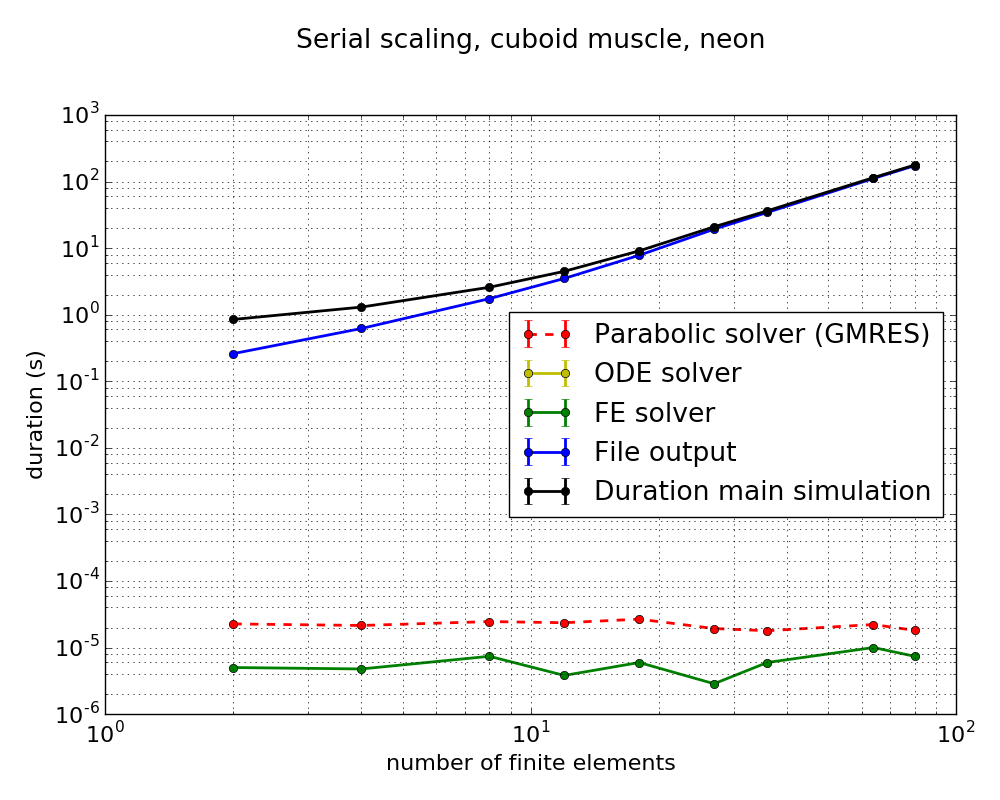
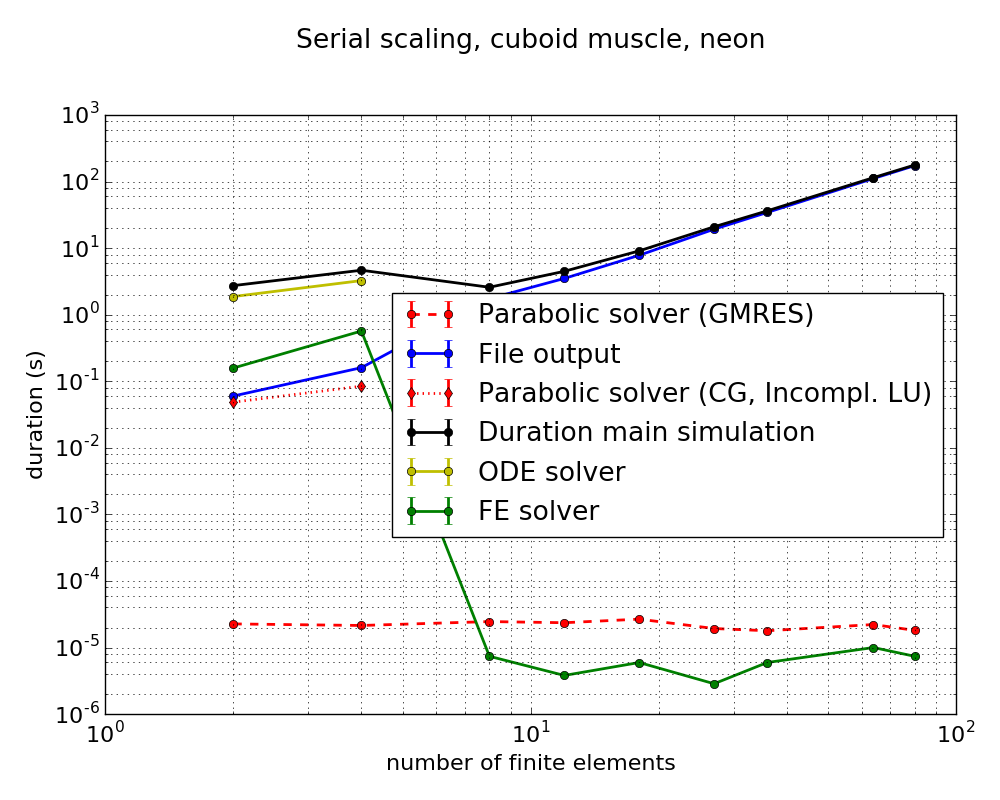
Update for paper format

Changed region(s): [[0.217, 0.3125, 0.961, 0.7188], [0.217, 0.75, 0.496, 0.8438], [0.899, 0.4688, 0.93, 0.5]]

diff --git a/1Dsolver/plot_reduced.py b/1Dsolver/plot_reduced.py
@@ -264,8 +264,8 @@ def extract_data(data):
         if value != 0:
           value_list.append(value)
       
-      if len(value_list) > 0:
-        print "key=",key, ",len=",len(value_list)
+      #if len(value_list) > 0:
+      #  print "key=",key, ",len=",len(value_list)
       
       # remove outlier
       value_list = sorted(value_list)
@@ -296,33 +296,34 @@ datasets = extract_data(data)
 
 ###############################################################
 # output to console
-print ""
-print "------------- duration -------------------------------------------"
-print "{:10}, {:6}, {:6}, {:6}, {:6}, {:10}, {:10}, {:10}, {:10}".\
-format("key", "nproc", "F", "#M", "#FE", "init", "stretch", "init", "main")
-for key in datasets:
-  
+if False:
+  print ""
+  print "------------- duration -------------------------------------------"
   print "{:10}, {:6}, {:6}, {:6}, {:6}, {:10}, {:10}, {:10}, {:10}".\
-  format(key, datasets[key]["value"][2], datasets[key]["value"][6], datasets[key]["value"][8], datasets[key]["value"][7], 
-  fo.str_format_seconds(datasets[key]["value"][10]), 
-  fo.str_format_seconds(datasets[key]["value"][11]), 
-  fo.str_format_seconds(datasets[key]["value"][12]), 
-  fo.str_format_seconds(datasets[key]["value"][13]))
-print ""
-print ""
-  
-print "{:10}, {:6}, {:6}, {:6}, {:6}, {:10}, {:10}, {:10}, {:10}".\
-format("key", "nproc", "F", "#M", "#FE", "ODE", "Parabolic", "FE", "file output")
-for key in datasets:
-  
+  format("key", "nproc", "F", "#M", "#FE", "init", "stretch", "init", "main")
+  for key in datasets:
+    
+    print "{:10}, {:6}, {:6}, {:6}, {:6}, {:10}, {:10}, {:10}, {:10}".\
+    format(key, datasets[key]["value"][2], datasets[key]["value"][6], datasets[key]["value"][8], datasets[key]["value"][7], 
+    fo.str_format_seconds(datasets[key]["value"][10]), 
+    fo.str_format_seconds(datasets[key]["value"][11]), 
+    fo.str_format_seconds(datasets[key]["value"][12]), 
+    fo.str_format_seconds(datasets[key]["value"][13]))
+  print ""
+  print ""
+    
   print "{:10}, {:6}, {:6}, {:6}, {:6}, {:10}, {:10}, {:10}, {:10}".\
-  format(key, datasets[key]["value"][2], datasets[key]["value"][6], datasets[key]["value"][8],  datasets[key]["value"][7], 
-  fo.str_format_seconds(datasets[key]["value"][17]), 
-  fo.str_format_seconds(datasets[key]["value"][18]), 
-  fo.str_format_seconds(datasets[key]["value"][19]), 
-  fo.str_format_seconds(datasets[key]["value"][96]))
-  
-  
+  format("key", "nproc", "F", "#M", "#FE", "ODE", "Parabolic", "FE", "file output")
+  for key in datasets:
+    
+    print "{:10}, {:6}, {:6}, {:6}, {:6}, {:10}, {:10}, {:10}, {:10}".\
+    format(key, datasets[key]["value"][2], datasets[key]["value"][6], datasets[key]["value"][8],  datasets[key]["value"][7], 
+    fo.str_format_seconds(datasets[key]["value"][17]), 
+    fo.str_format_seconds(datasets[key]["value"][18]), 
+    fo.str_format_seconds(datasets[key]["value"][19]), 
+    fo.str_format_seconds(datasets[key]["value"][96]))
+    
+    
 if False:
   print ""
   print "--------- timing -------------------------"
@@ -332,23 +333,23 @@ if False:
       print "   ", str(item).ljust(2), descriptions[item].ljust(50), ": ", datasets[key]["value"][item]
 
 
-  
-print ""
-print "------------- n iterations -------------------------------------------"
-print "{:10}, {:6}, {:6}, {:10}, {:10}, {:10}, {:10}, {:10}, {:10}, {:10}, {:10}".\
-format("key", "F", "#M", "Parabolic", "Newton", "p. n. iter", "min", "max", "n. n. iter", "min", "max" )
-for key in datasets:
-  
+    
+  print ""
+  print "------------- n iterations -------------------------------------------"
   print "{:10}, {:6}, {:6}, {:10}, {:10}, {:10}, {:10}, {:10}, {:10}, {:10}, {:10}".\
-  format(key, datasets[key]["value"][6], datasets[key]["value"][8], 
-  datasets[key]["value"][23],
-  datasets[key]["value"][24],
-  datasets[key]["value"][25],
-  datasets[key]["value"][26],
-  datasets[key]["value"][27],
-  datasets[key]["value"][28],
-  datasets[key]["value"][29],
-  datasets[key]["value"][30])
+  format("key", "F", "#M", "Parabolic", "Newton", "p. n. iter", "min", "max", "n. n. iter", "min", "max" )
+  for key in datasets:
+    
+    print "{:10}, {:6}, {:6}, {:10}, {:10}, {:10}, {:10}, {:10}, {:10}, {:10}, {:10}".\
+    format(key, datasets[key]["value"][6], datasets[key]["value"][8], 
+    datasets[key]["value"][23],
+    datasets[key]["value"][24],
+    datasets[key]["value"][25],
+    datasets[key]["value"][26],
+    datasets[key]["value"][27],
+    datasets[key]["value"][28],
+    datasets[key]["value"][29],
+    datasets[key]["value"][30])
 ###############################################################
 #######################################################
 # plot
@@ -409,7 +410,7 @@ xlist = sorted(xdata)
 
 ######################
 # plot serial scaling
-plt.figure(2, figsize=(8,6))
+plt.figure(2, figsize=(12,6))
 
 # 13 duration main sim
 # 17 ODE
@@ -496,12 +497,16 @@ ax = plt.gca()
 #ax.set_xscale('log', basey=2) 
 ax.set_yscale('log', basey=10) 
 ax.set_xscale('log', basey=10) 
-ax.set_xlim([10, 4e3])
+ax.set_xlim([8, 4e3])
 #ax.set_xticks([1,2,4,8,12,16,24,32,64])
 plt.xlabel('Number of nodes per fibre, $s_x$')
+ax.xaxis.set_label_coords(0.5, -0.13)
 plt.ylabel('Runtime (s)')
-plt.legend(loc='best',fontsize=20)
-plt.grid(which='both')
+
+plt.subplots_adjust(right=0.57, bottom=0.15)
+plt.legend(bbox_to_anchor=(1.05, 1), loc=2, borderaxespad=0., frameon=False)
+
+plt.grid(which='major')
 
 # twin axes for processes
 #ax2 = ax.twiny()
@@ -512,7 +517,7 @@ plt.grid(which='both')
 
 if not paper_version:
   plt.title(caption)
-plt.tight_layout()
+#plt.tight_layout()
 plt.savefig(output_path+SCENARIO+'_1D_solver.png')
 
 if show_plots:

diff --git a/paper_weak_scaling_with3d/plot.py b/paper_weak_scaling_with3d/plot.py
@@ -353,10 +353,14 @@ colors = {
 }
 
 labels = {
-  "15o": "total",      # total
-  "36o": "solver 0D model",      # 0D
-  "37o": "solver 1D model",      # 1D
-  "38o": "solver 3D model",      # 3D
+  "15o": "total (cubes)",      # total
+  "36o": "solver 0D model (cubes)",      # 0D
+  "37o": "solver 1D model (cubes)",      # 1D
+  "38o": "solver 3D model (cubes)",      # 3D
+  "15-": "total (pillars)",      # total
+  "36-": "solver 0D model (pillars)",      # 0D
+  "37-": "solver 1D model (pillars)",      # 1D
+  "38-": "solver 3D model (pillars)",      # 3D
   "39o": u"homogenization, 1D to 3D",     # 1D->3D
   "40o": u"interpolation, 3D to 1D",      # 3D->1D
   "41o": "file output",      # file output
@@ -450,14 +454,14 @@ ax.set_xlim([2e3,1e5])
 
 if not paper_no_legend:
   plt.subplots_adjust(right=0.58, top=0.84)
-  plt.legend(bbox_to_anchor=(1.05, 1), loc=2, borderaxespad=0., fontsize=20.)
+  plt.legend(bbox_to_anchor=(1.05, 1), loc=2, borderaxespad=0., fontsize=20., frameon=False)
 
 #ax.set_xticks(np.linspace(000,60000,5))
 
 plt.xlabel('Number of 1D elements')
 plt.ylabel('Runtime (s)')
 #plt.legend(loc='best')
-plt.grid(which='both')
+plt.grid(which='major')
 
 # twin axes for processes
 ax2 = ax.twiny()
@@ -596,7 +600,7 @@ if not paper_no_legend:
 plt.xlabel('Number of 1D elements')
 plt.ylabel('Parallel efficiency')
 #plt.legend(loc='best')
-plt.grid(which='both')
+plt.grid(which='major')
 
 # twin axes for processes
 ax2 = ax.twiny()
@@ -813,9 +817,10 @@ for plotkey in ["ghosto", "ghost-"]:
 
 
 plt.xlabel('Number of 1D elements')
+ax.xaxis.set_label_coords(0.5, -0.08)
 plt.ylabel('Number of 3D ghost elements')
 plt.legend(loc='best')
-plt.grid(which='both')
+plt.grid(which='major')
 
 # twin axes for processes
 ax2 = ax.twiny()

diff --git a/interpolation_time/plot_serial_scaling.py b/interpolation_time/plot_serial_scaling.py
@@ -403,7 +403,7 @@ xlist = sorted(xdata)
 
 ######################
 # plot serial scaling
-plt.figure(2, figsize=(8,7))
+plt.figure(2, figsize=(12,7))
 
 # 13 duration main sim
 # 17 ODE
@@ -436,7 +436,7 @@ labels = {
   "36-": "solver 0D model",      # 0D
   "37-": "solver 1D model",      # 1D
   "38-": "solver 3D model",      # 3D
-  "39o": u"old implementation",     # 1D->3D
+  "39o": u"Heidlauf et al. 2013",     # 1D->3D
   "39-": u"new implementation",     # 1D->3D
   "40-": u"interpolation, 3D to 1D",      # 3D->1D
   "41-": "file output",      # file output
@@ -459,18 +459,23 @@ for plotkey in plotkeys:
   if plotkey in labels:
     label = labels[plotkey]
     
-  plt.errorbar(xlist, ylist, fmt=colors[plotkey], yerr=yerr, label=label)
+  #plt.errorbar(xlist, ylist, fmt=colors[plotkey], yerr=yerr, label=label)
+  plt.plot(xlist, ylist, colors[plotkey], label=label)
   
 ax = plt.gca()
 #ax.set_xscale('log', basey=2) 
 ax.set_yscale('log', basey=10) 
 ax.set_xscale('log', basey=10) 
-ax.set_xlim(1,2e3)
+ax.set_xlim(0.5,2e3)
 #ax.set_xticks([1,2,4,8,12,16,24,32,64])
 plt.xlabel('Number of 3D elements')
+ax.xaxis.set_label_coords(0.5, -0.1)
 plt.ylabel('Duration (s)')
-plt.legend(loc='best')
-plt.grid(which='minor')
+
+plt.subplots_adjust(right=0.57, bottom=0.15)
+plt.legend(bbox_to_anchor=(1.05, 1), loc=2, borderaxespad=0., frameon=False)
+
+plt.grid(which='major')
 
 # twin axes for processes
 #ax2 = ax.twiny()
@@ -480,7 +485,7 @@ plt.grid(which='minor')
 #ax2.set_xlabel(r"Number of processes")
 
 #plt.title(caption, y=1.1)
-plt.tight_layout()
+#plt.tight_layout()
 plt.savefig(output_path+SCENARIO+'_homogenization.png')
 
 if show_plots:

diff --git a/paper_std/plot_paper.py b/paper_std/plot_paper.py
@@ -367,7 +367,7 @@ for key in datasets:
 
 # loop over curves and plot data with given label and color
 plotkeys = sorted(plotkeys)
-print "plotkeys: ",plotkeys
+#print "plotkeys: ",plotkeys
 for plotkey in plotkeys:
     
   xlist = sorted(plotdata[plotkey]["value"])
@@ -393,15 +393,16 @@ ax.set_xlim([1e3, 3e5])
 #ax.set_xticklabels([int(i/1000.) for i in ticks])
 
 if not paper_no_legend:
-  plt.subplots_adjust(right=0.57, top=0.84)
-  plt.legend(bbox_to_anchor=(1.05, 1), loc=2, borderaxespad=0.)
+  plt.subplots_adjust(right=0.57, top=0.84, bottom=0.12)
+  plt.legend(bbox_to_anchor=(1.05, 1), loc=2, borderaxespad=0., frameon=False)
 
 #ax.set_xticks(np.linspace(000,60000,5))
 
 plt.xlabel('Number of 1D elements per fibre, $s_x$')
+ax.xaxis.set_label_coords(0.5, -0.1)
 plt.ylabel('Runtime (s)')
 #plt.legend(loc='best')
-plt.grid(which='both')
+plt.grid(which='major')
 
 if not paper_version:
   plt.title(caption, y=1.1)

diff --git a/paper_std/run.py b/paper_std/run.py
@@ -25,7 +25,7 @@ def check_exit():
 
 def run(xi1,ode,msolver,mprecond):   
   print "xi1={0}".format(int(xi1))
-  command = "$OPENCMISS_REL_DIR/cuboid $OPENCMISS_SCE_FILE $OPENCMISS_INPUT_DIR xi1={} ODESolverId={} MonodomainSolverId={} MonodomainPreconditionerId={} TimeStop=1 StimPeriod=1"\
+  command = "$OPENCMISS_REL_DIR/cuboid $OPENCMISS_SCE_FILE $OPENCMISS_INPUT_DIR xi1={} ODESolverId={} MonodomainSolverId={} MonodomainPreconditionerId={} TimeStop=3 StimPeriod=1"\
   .format(int(xi1), int(ode), int(msolver), int(mprecond))
 
   #print command

diff --git a/0D1D_timestep/plot.py b/0D1D_timestep/plot.py
@@ -25,6 +25,7 @@ remove_outliers = True
   
 # read csv file
 report_filename = "error2.csv"
+report_filename = "error6.csv"
 
 print "report file: {}".format(report_filename)
 data = []
